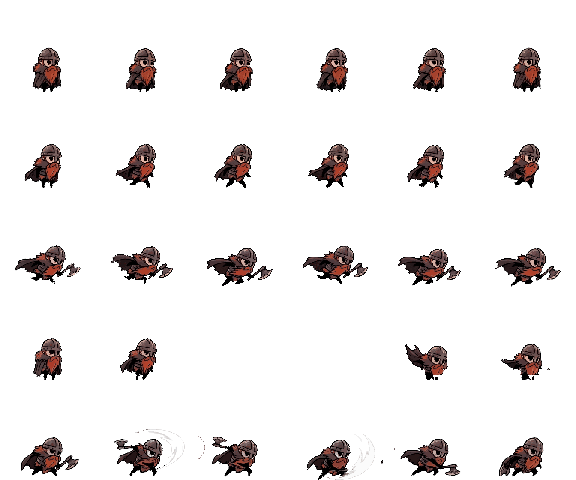
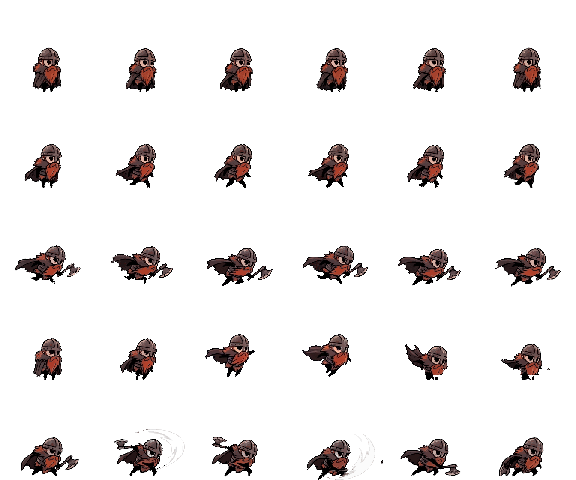
fix(sprites): restaura quadros do pulo e elimina lâmina vazada no ataque

Changed region(s): [[0.5312, 0.6875, 0.625, 0.7812], [0.3438, 0.6875, 0.4375, 0.7812]]

diff --git a/scripts/process_sprites.py b/scripts/process_sprites.py
@@ -22,28 +22,79 @@ from PIL import Image, ImageEnhance, ImageFilter
 
 VALID_EXTENSIONS = {'.png', '.jpg', '.jpeg', '.webp', '.bmp'}
 
-def remove_disconnected_top_islands(frame_img: Image.Image) -> Image.Image:
+def remove_disconnected_top_islands(frame_img: Image.Image, is_airborne: bool = False) -> Image.Image:
     """
     Remove fragmentos flutuantes/ilhas de pixels no topo do quadro que são
     vazamentos de linhas superiores (como botas do pulo caindo sobre quadros de ataque).
-    Detecta se há uma lacuna de linhas vazias entre o topo e o corpo aterrado do personagem.
+    Detecta se há pequenos fragmentos no topo separados por uma lacuna do corpo principal abaixo.
+    Nunca apaga quadros aéreos legítimos (como o pulo).
     """
+    if is_airborne:
+        return frame_img
+
     arr = np.array(frame_img)
     alpha = arr[:, :, 3]
     h, w = alpha.shape
     row_counts = np.sum(alpha > 0, axis=1)
 
-    # Varre de baixo para cima a partir dos pés
-    feet_y = int(h * 0.90)
-    for y in range(feet_y, 0, -1):
-        if row_counts[y] == 0:
-            gap = 0
-            while y - gap >= 0 and row_counts[y - gap] == 0:
-                gap += 1
-            if gap >= 8:
-                # Zera a transparência de qualquer pixel solto acima da lacuna
-                arr[:y - gap + 1, :, 3] = 0
-                break
+    # Identifica pixels nas primeiras linhas (topo do quadro)
+    top_limit = int(h * 0.25)
+    has_top_pixels = any(row_counts[y] > 0 for y in range(top_limit))
+    if not has_top_pixels:
+        return frame_img
+
+    # Procura se há uma lacuna vazia logo após os fragmentos do topo
+    top_end = max((y for y in range(top_limit) if row_counts[y] > 0), default=-1)
+    if top_end == -1:
+        return frame_img
+
+    gap = 0
+    y = top_end + 1
+    while y < h and row_counts[y] == 0:
+        gap += 1
+        y += 1
+
+    # Só remove os fragmentos do topo se houver gap de pelo menos 8px e o corpo principal abaixo
+    if gap >= 8 and y < h:
+        pixels_below = np.sum(row_counts[y:])
+        pixels_top = np.sum(row_counts[:top_end + 1])
+        if pixels_below > pixels_top * 2:
+            arr[:top_end + 1, :, 3] = 0
+
+    return Image.fromarray(arr, mode="RGBA")
+
+def remove_disconnected_left_islands(frame_img: Image.Image) -> Image.Image:
+    """
+    Remove fragmentos de corte à esquerda (como pontas de arcos de ataque vazados da coluna anterior).
+    Detecta se há pequenos fragmentos nas primeiras colunas (< 25% da largura) separados por uma
+    lacuna vazia (>= 6px) do corpo principal à direita.
+    """
+    arr = np.array(frame_img)
+    alpha = arr[:, :, 3]
+    h, w = alpha.shape
+    col_counts = np.sum(alpha > 0, axis=0)
+
+    left_limit = int(w * 0.25)
+    has_left_pixels = any(col_counts[x] > 0 for x in range(left_limit))
+    if not has_left_pixels:
+        return frame_img
+
+    left_end = max((x for x in range(left_limit) if col_counts[x] > 0), default=-1)
+    if left_end == -1:
+        return frame_img
+
+    gap = 0
+    x = left_end + 1
+    while x < w and col_counts[x] == 0:
+        gap += 1
+        x += 1
+
+    if gap >= 6 and x < w:
+        pixels_right = np.sum(col_counts[x:])
+        pixels_left = np.sum(col_counts[:left_end + 1])
+        if pixels_right > pixels_left * 2:
+            arr[:, :left_end + 1, 3] = 0
+
     return Image.fromarray(arr, mode="RGBA")
 
 def remove_background_cleanly(
@@ -188,14 +239,16 @@ def process_single_frame(
     tolerance: float = 38.0,
     num_colors: int = 24,
     scale: float | None = None,
-    feet_y: int | None = None
+    feet_y: int | None = None,
+    is_airborne: bool = False
 ) -> Image.Image:
     """Processa um quadro com pré-processamento de contraste e limpeza."""
     # 1. Remoção limpa de fundo (sem apagar pretos internos)
     cleaned = remove_background_cleanly(cell_img, tolerance=tolerance, erode_pixels=1)
 
-    # 1.1 Remove fragmentos e ilhas flutuantes vazadas de outras linhas
-    cleaned = remove_disconnected_top_islands(cleaned)
+    # 1.1 Remove fragmentos e ilhas flutuantes vazadas de outras linhas/colunas
+    cleaned = remove_disconnected_top_islands(cleaned, is_airborne=is_airborne)
+    cleaned = remove_disconnected_left_islands(cleaned)
 
     # 2. Realce de vivacidade e contraste
     enhanced = enhance_vibrancy_and_contrast(cleaned)
@@ -267,7 +320,8 @@ def process_base_sheet(
                 tolerance=tolerance,
                 num_colors=num_colors,
                 scale=uniform_scale,
-                feet_y=196 if use_art else 120
+                feet_y=196 if use_art else 120,
+                is_airborne=(r_name == "jump")
             )
 
             frame_name = f"viking_base_{r_name}_{c_idx}.png"
